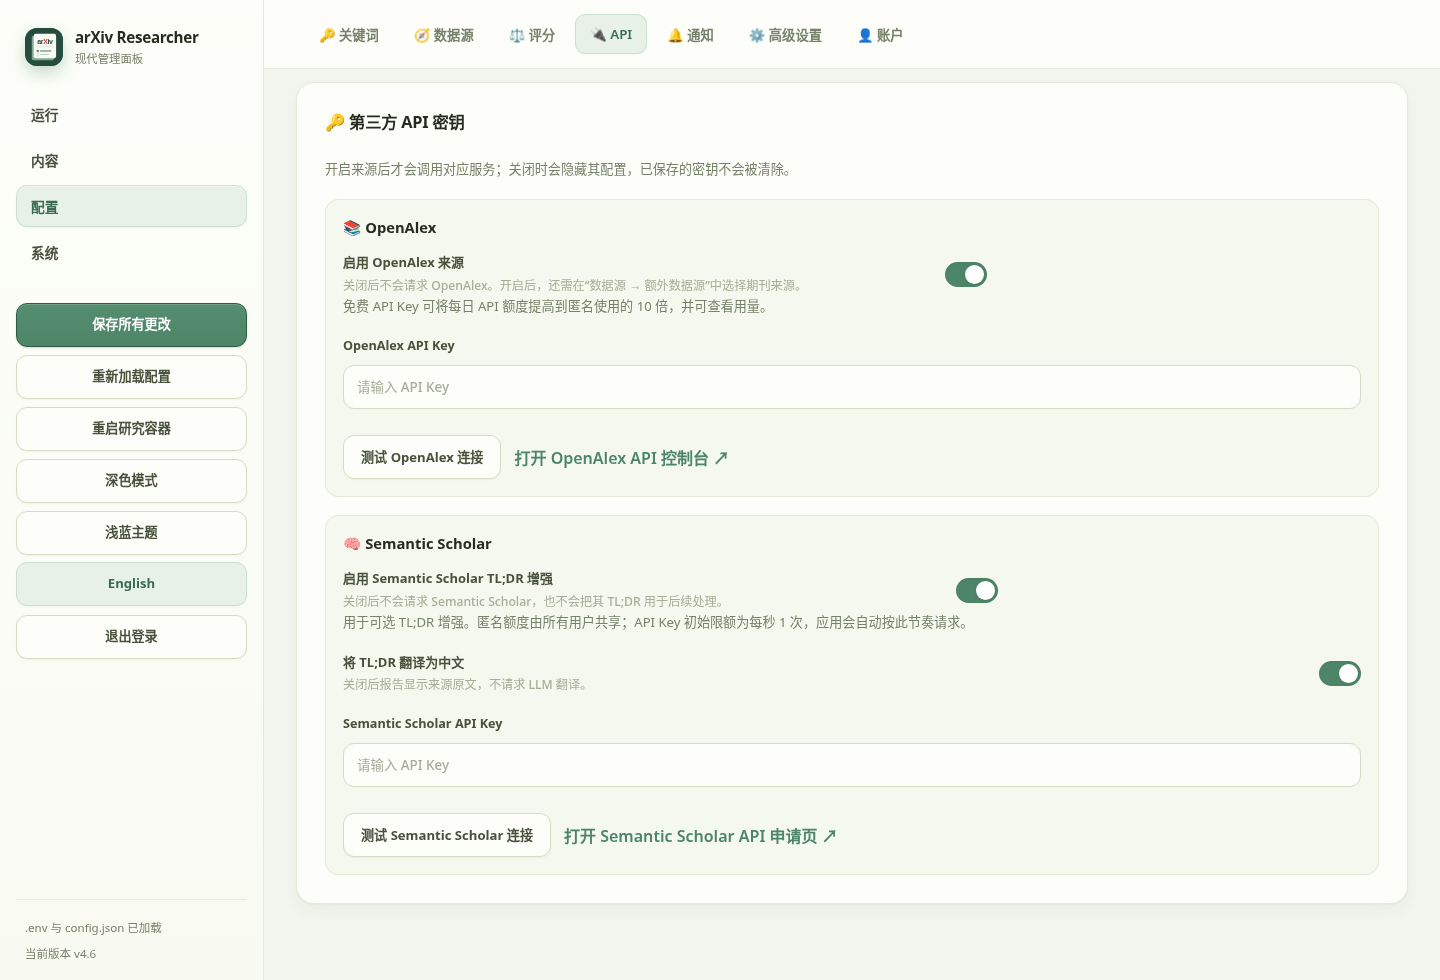
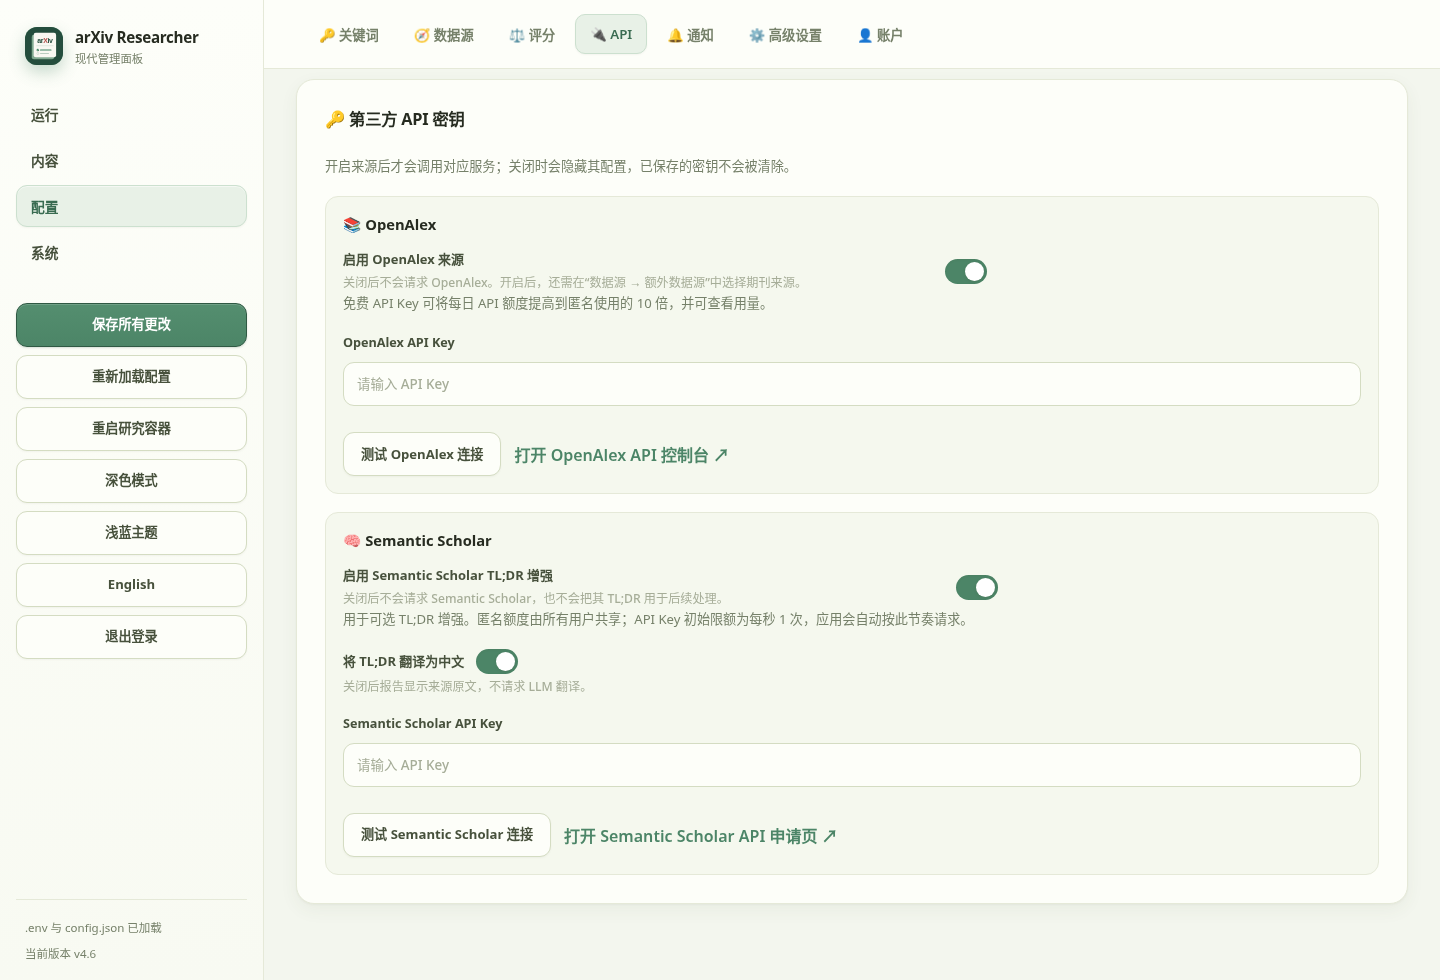
style(webui): keep helped toggles beside their labels

diff --git a/src/modern_webui/static/app.css b/src/modern_webui/static/app.css
@@ -430,7 +430,12 @@ select::-ms-expand { display: none; }
 .toggle-field i::after { position: absolute; top: 3px; left: 3px; width: 19px; height: 19px; border-radius: 50%; background: #fff; box-shadow: 0 1px 3px rgba(73, 84, 58, .2); content: ""; transition: transform .18s var(--ease); }
 .toggle-field input:checked + i { background: var(--brand); }
 .toggle-field input:checked + i::after { transform: translateX(17px); }
-#semantic-dependent > .toggle-field { justify-content: space-between; margin: 18px 0; }
+.toggle-field-with-help { display: grid; grid-template-columns: minmax(0, max-content) 42px minmax(0, 1fr); column-gap: 12px; row-gap: 4px; justify-content: start; }
+.toggle-field-with-help > span:first-child, .toggle-field-with-help > i { grid-row: 1; }
+.toggle-field-with-help > span:first-child { grid-column: 1; }
+.toggle-field-with-help > i { grid-column: 2; }
+.toggle-field-with-help > .field-help { grid-column: 1 / -1; grid-row: 2; margin-top: 0; }
+#semantic-dependent > .toggle-field { margin: 18px 0; }
 .refresh-row { display: flex; align-items: center; justify-content: space-between; gap: 15px; margin-top: 17px; padding: 15px 0 16px; border-top: 1px solid var(--line); border-bottom: 1px solid var(--line); }
 .refresh-row span { display: grid; gap: 4px; }
 .refresh-row small { color: var(--muted); font-size: .74rem; font-weight: 500; }

diff --git a/src/modern_webui/static/app.js b/src/modern_webui/static/app.js
@@ -1481,6 +1481,9 @@ function field(options) {
   const data = `data-field="${escapeAttribute(key)}" data-scope="${scope}"`;
   const hint = help ? `<span class="field-help">${escapeHtml(help)}</span>` : "";
   if (type === "checkbox") {
+    if (help) {
+      return `<label class="toggle-field toggle-field-with-help"><span>${escapeHtml(label)}</span><input type="checkbox" ${data} ${booleanValue(value, fallback) ? "checked" : ""}/><i></i>${hint}</label>`;
+    }
     return `<label class="toggle-field"><span>${escapeHtml(label)}${hint}</span><input type="checkbox" ${data} ${booleanValue(value, fallback) ? "checked" : ""}/><i></i></label>`;
   }
   if (type === "textarea" || type === "lines") {

diff --git a/tests/test_modern_webui_app.py b/tests/test_modern_webui_app.py
@@ -84,6 +84,16 @@ class ModernWebUIAppTests(unittest.TestCase):
         self.assertEqual(catalogue["semantic_scholar_translate_label"]["en"],
                          "Translate TL;DRs into Chinese")
 
+    def test_helped_switches_keep_controls_next_to_the_label(self) -> None:
+        script = self.client.get("/assets/app.js").text
+        stylesheet = self.client.get("/assets/app.css").text
+
+        self.assertIn('class="toggle-field toggle-field-with-help"', script)
+        self.assertIn('>${hint}</label>`;', script)
+        self.assertIn('.toggle-field-with-help > i { grid-column: 2; }', stylesheet)
+        self.assertIn('.toggle-field-with-help > .field-help { grid-column: 1 / -1;', stylesheet)
+        self.assertNotIn('#semantic-dependent > .toggle-field { justify-content: space-between;', stylesheet)
+
     def test_shared_translation_catalogue_is_available_before_sign_in(self) -> None:
         response = self.client.get("/api/i18n")
 
